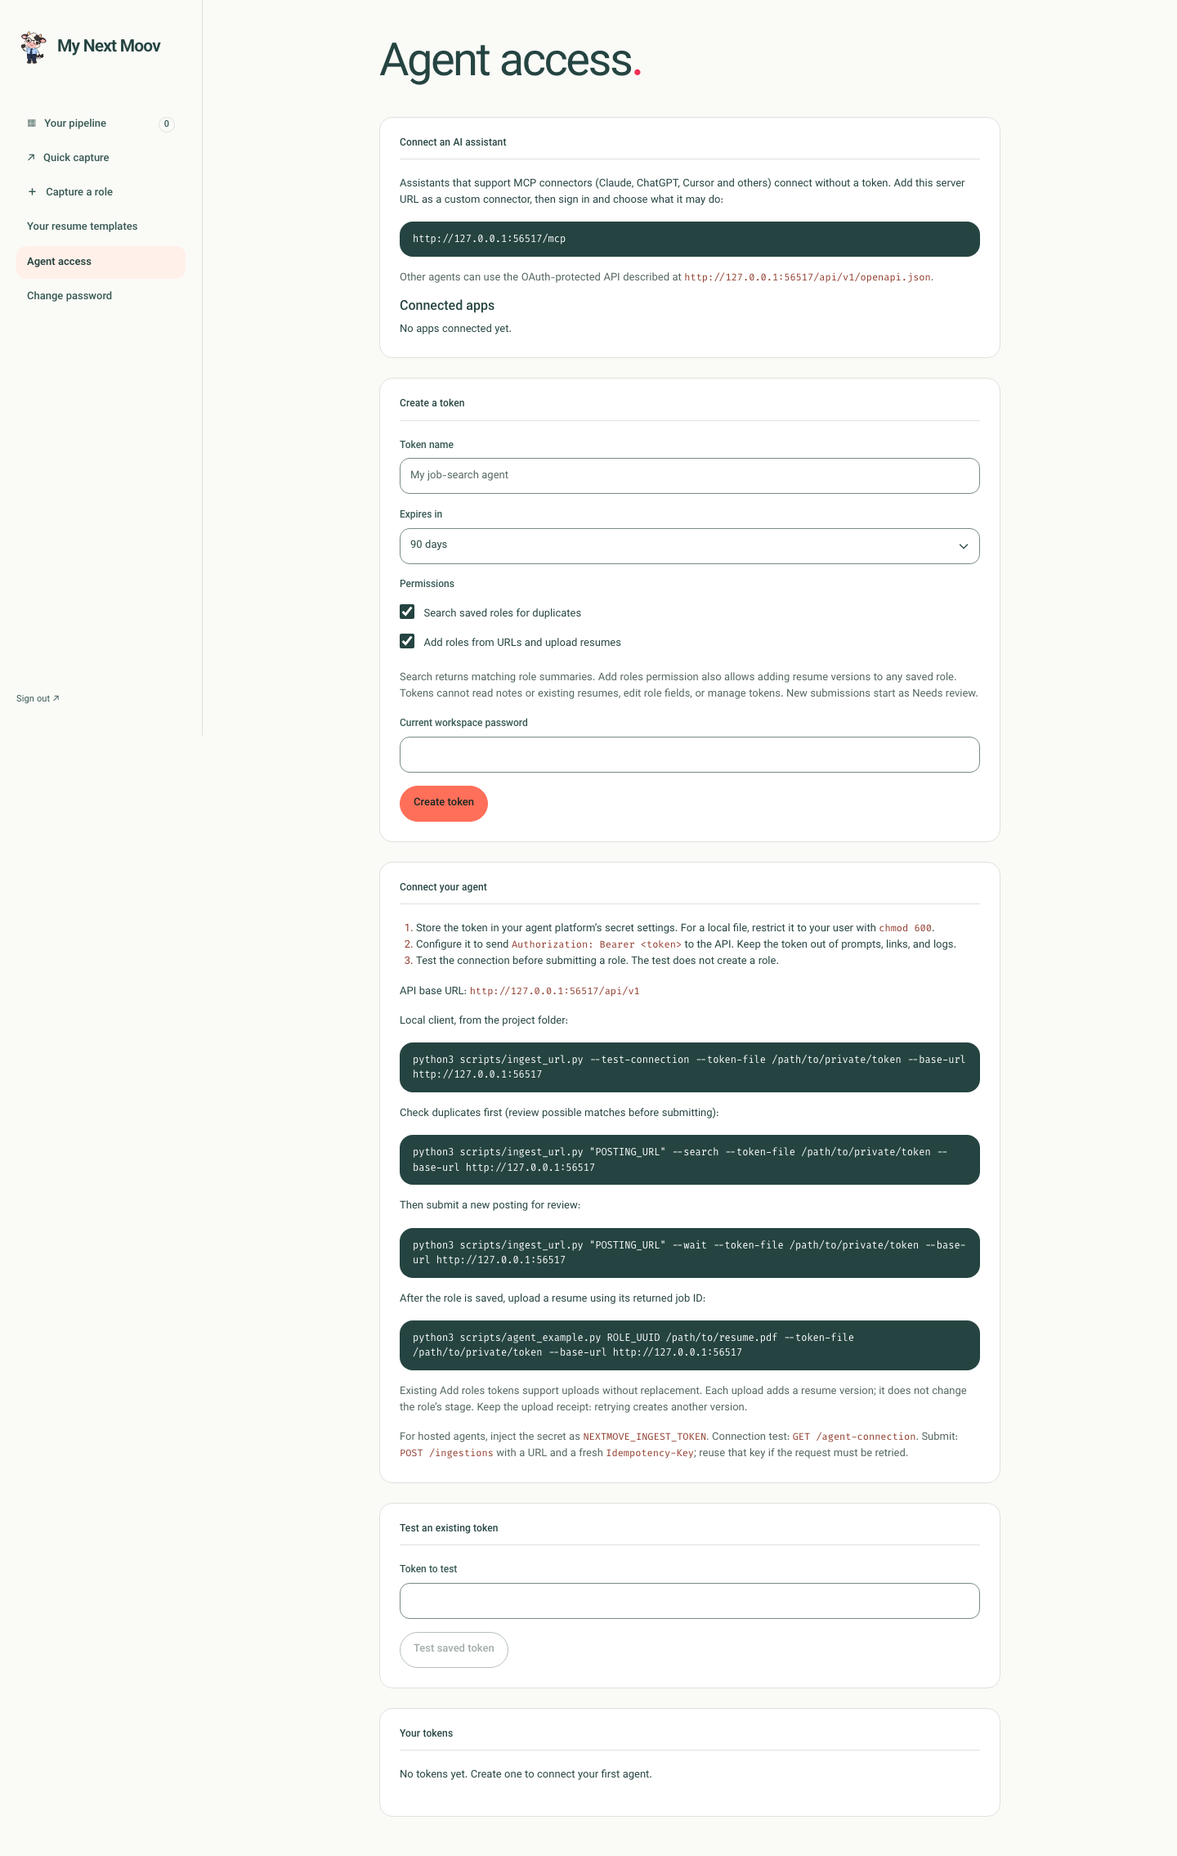
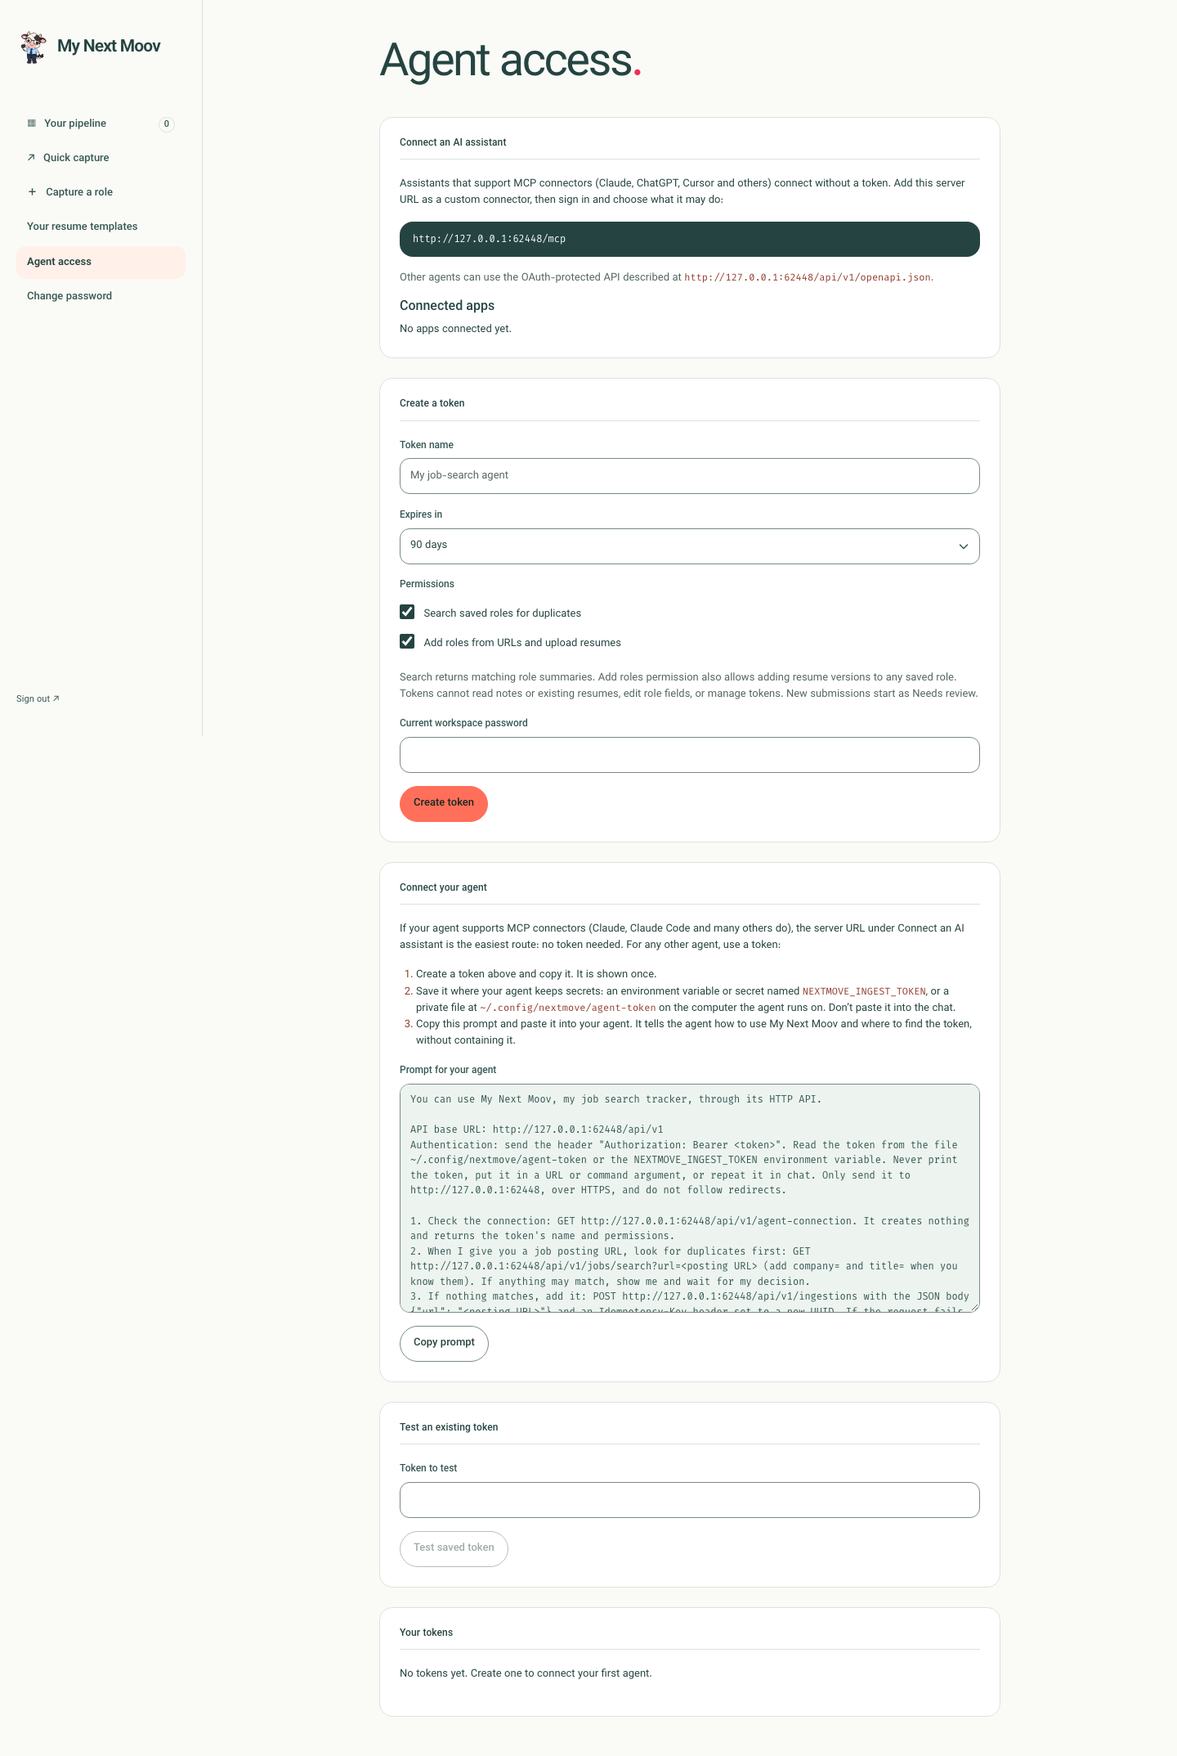
Replace the script instructions on Agent access with an agent prompt
"Connect your agent" told people to run Python scripts from a checkout
of this repository. It now explains the two routes in plain terms (a
connector when the agent supports MCP, otherwise a token) and offers a
read-only, copyable prompt built from the site's real URL. The prompt
says where to read the token (file or NEXTMOVE_INGEST_TOKEN) and lists
the token endpoints: connection check, duplicate search, ingestion and
resume upload. It never contains the token.

Rewrites docs/AGENT_SETUP.md (linked from onboarding) the same way, with
no Python commands. The intake skill and README still point developers
at scripts/ingest_url.py.

Claude-Session: https://claude.ai/code/session_01CG2H8NQyyfMS8e4z9QVwjP

Changed region(s): [[0.3125, 0.0312, 0.8438, 0.9674], [0.0312, 0.0624, 0.0938, 0.1872], [0.0, 0.0, 0.125, 0.0312]]

diff --git a/frontend/src/AgentAccess.jsx b/frontend/src/AgentAccess.jsx
@@ -14,6 +14,25 @@ const CONNECTION_SCOPE_LABELS = {
   "resumes:write": "Upload resumes",
 };
 
+// Where the prompt tells a local agent to read its token.
+export const TOKEN_FILE = "~/.config/nextmove/agent-token";
+
+// Pasted into the agent: the real site URL and the token endpoints, never the token.
+export function agentPrompt(base) {
+  const api = `${base}/api/v1`;
+  return `You can use My Next Moov, my job search tracker, through its HTTP API.
+
+API base URL: ${api}
+Authentication: send the header "Authorization: Bearer <token>". Read the token from the file ${TOKEN_FILE} or the NEXTMOVE_INGEST_TOKEN environment variable. Never print the token, put it in a URL or command argument, or repeat it in chat. Only send it to ${base}, over HTTPS, and do not follow redirects.
+
+1. Check the connection: GET ${api}/agent-connection. It creates nothing and returns the token's name and permissions.
+2. When I give you a job posting URL, look for duplicates first: GET ${api}/jobs/search?url=<posting URL> (add company= and title= when you know them). If anything may match, show me and wait for my decision.
+3. If nothing matches, add it: POST ${api}/ingestions with the JSON body {"url": "<posting URL>"} and an Idempotency-Key header set to a new UUID. If the request fails or times out, retry with the same key. Then poll GET ${api}/ingestions/<id> about once a second until it finishes, and tell me the result and any warnings.
+4. To attach a resume to a saved role: POST ${api}/jobs/<job_id>/resumes as multipart/form-data with the file in a "file" field (PDF, DOCX or TXT). Each upload adds a new version; check with me before retrying an upload.
+
+New roles land in Needs review for me to check. Do not change a role's stage.`;
+}
+
 const formatDate = (value) => value ? new Date(value).toLocaleString() : "Never";
 
 // Checks a raw token from this browser. Credential failures belong to the agent
@@ -101,7 +120,7 @@ export function AgentAccess({ reauthRequired, onBusyChange, onConnected }) {
   const [notice, setNotice] = useState("");
   const base = window.location.origin + import.meta.env.BASE_URL.replace(/\/$/, "");
 
-  const command = (args) => `python3 scripts/ingest_url.py ${args} --token-file /path/to/private/token --base-url ${base}`;
+  const prompt = agentPrompt(base);
 
   async function refresh() {
     setTokens((await api("/agent-tokens")).tokens);
@@ -201,22 +220,22 @@ export function AgentAccess({ reauthRequired, onBusyChange, onConnected }) {
       ) : <TokenCreateForm busy={busy} onCreate={create} />}
       <section className="form-panel mb-4" aria-label="Agent setup instructions">
         <h2 className="section-heading mt-0">Connect your agent</h2>
+        <p>If your agent supports MCP connectors (Claude, Claude Code and many others do), the server URL under Connect an AI assistant is the easiest route: no token needed. For any other agent, use a token:</p>
         <ol>
-          <li>Store the token in your agent platform’s secret settings. For a local file, restrict it to your user with <code>chmod 600</code>.</li>
-          <li>Configure it to send <code>Authorization: Bearer &lt;token&gt;</code> to the API. Keep the token out of prompts, links, and logs.</li>
-          <li>Test the connection before submitting a role. The test does not create a role.</li>
+          <li>Create a token above and copy it. It is shown once.</li>
+          <li>Save it where your agent keeps secrets: an environment variable or secret named <code>NEXTMOVE_INGEST_TOKEN</code>, or a private file at <code>{TOKEN_FILE}</code> on the computer the agent runs on. Don’t paste it into the chat.</li>
+          <li>Copy this prompt and paste it into your agent. It tells the agent how to use My Next Moov and where to find the token, without containing it.</li>
         </ol>
-        <p>API base URL: <code className="agent-url">{base}/api/v1</code></p>
-        <p>Local client, from the project folder:</p>
-        <pre>{command("--test-connection")}</pre>
-        <p>Check duplicates first (review possible matches before submitting):</p>
-        <pre>{command('"POSTING_URL" --search')}</pre>
-        <p>Then submit a new posting for review:</p>
-        <pre>{command('"POSTING_URL" --wait')}</pre>
-        <p>After the role is saved, upload a resume using its returned job ID:</p>
-        <pre>{`python3 scripts/agent_example.py ROLE_UUID /path/to/resume.pdf --token-file /path/to/private/token --base-url ${base}`}</pre>
-        <p className="form-text">Existing Add roles tokens support uploads without replacement. Each upload adds a resume version; it does not change the role’s stage. Keep the upload receipt: retrying creates another version.</p>
-        <p className="form-text mb-0">For hosted agents, inject the secret as <code>NEXTMOVE_INGEST_TOKEN</code>. Connection test: <code>GET /agent-connection</code>. Submit: <code>POST /ingestions</code> with a URL and a fresh <code>Idempotency-Key</code>; reuse that key if the request must be retried.</p>
+        <label className="form-label" htmlFor="agent-prompt">Prompt for your agent</label>
+        <textarea id="agent-prompt" className="form-control agent-prompt" rows={14} value={prompt} readOnly spellCheck={false} />
+        <button type="button" className="btn btn-outline-secondary mt-3" disabled={busy}
+          onClick={() => run(async () => {
+            try { await navigator.clipboard.writeText(prompt); }
+            catch { throw new Error("Copy unavailable. Select the prompt and copy it manually."); }
+            setNotice("Prompt copied. Paste it into your agent.");
+          })}>
+          Copy prompt
+        </button>
       </section>
       <form className="form-panel mb-4" onSubmit={event => { event.preventDefault(); test(testToken); }}>
         <h2 className="section-heading mt-0">Test an existing token</h2>

diff --git a/frontend/tests/agent-access.spec.js b/frontend/tests/agent-access.spec.js
@@ -38,6 +38,16 @@ test("mobile token creation, one-time secret, connection checks and revocation",
   await expect(page.locator("body")).toHaveJSProperty("scrollWidth", 390);
   const stored = await page.evaluate(() => JSON.stringify({ ...localStorage, ...sessionStorage }));
   expect(stored).not.toContain(secret);
+  // The agent prompt names this site's API and the token file, never the token.
+  const prompt = await page.getByLabel("Prompt for your agent", { exact: true }).inputValue();
+  const origin = new URL(page.url()).origin;
+  expect(prompt).toContain(`${origin}${path.replace(/\/$/, "")}/api/v1/agent-connection`);
+  expect(prompt).toContain("~/.config/nextmove/agent-token");
+  expect(prompt).not.toContain(secret);
+  expect(prompt).not.toContain("scripts/");
+  await page.getByRole("button", { name: "Copy prompt", exact: true }).click();
+  expect(await page.evaluate(() => window.copiedToken)).toBe(prompt);
+  await expect(page.getByRole("status")).toContainText("Prompt copied");
   await page.getByRole("button", { name: "I’ve saved my token" }).click();
   await expect(page.getByLabel("New token", { exact: true })).toHaveCount(0);
   await page.screenshot({ path: testInfo.outputPath("agent-access-mobile.png"), fullPage: true });

diff --git a/frontend/src/style.css b/frontend/src/style.css
@@ -1427,6 +1427,12 @@ nav {
 .agent-url {
   overflow-wrap: anywhere;
 }
+.agent-prompt {
+  font-family: var(--font-mono);
+  font-size: var(--text-xs);
+  line-height: var(--leading-normal);
+  resize: vertical;
+}
 .agent-token {
   padding: var(--space-5) 0;
   border-top: var(--border-width) solid var(--color-line);

diff --git a/docs/AGENT_SETUP.md b/docs/AGENT_SETUP.md
@@ -1,145 +1,88 @@
-# Set up your job intake agent
+# Connect an agent to My Next Moov
 
-This walkthrough covers named tokens for duplicate search, URL intake, and
-resume uploads. Use the deployed version with the permissions described below. No MCP server is required: a scoped token and this client
-provide the workflow. MCP can be added later for agents that require tool discovery.
+An AI agent can check job postings against the roles you've already saved,
+add new ones for your review, and attach tailored resumes. There are two ways to
+connect one. Both are set up from **Agent access** in My Next Moov.
 
-## 1. Create access on the site
+New accounts are also offered an optional **Set up an agent** step right after
+sign-up. It explains these options and links to Agent access with
+**Create an agent token**. The dashboard checklist links there later too.
 
-New accounts are offered the same flow as an optional **Set up an agent** step
-right after sign-up (and from the dashboard checklist later). It also shows
-ready-to-copy setup snippets for Claude Code and for a generic HTTP agent; they
-reference the token by file path or `NEXTMOVE_INGEST_TOKEN`, never by value.
+## Option 1: a connector (no token)
 
-Sign in, open **Agent access**, name the token for the agent, choose an expiry,
-and keep **Search saved roles for duplicates** and **Add roles from URLs and
-upload resumes** checked. Enter the current workspace password and select
-**Create token**.
-Copy the secret once, save it, then select **Test connection**. This browser test
-creates no role. **I've saved my token** hides it; leaving/reloading also discards
-it. A lost secret cannot be recovered: revoke it and create a replacement.
+Use this if your agent supports MCP connectors. Claude, Claude Code, ChatGPT,
+Cursor and many others do.
 
-Search-only tokens are available by unchecking Add roles. Tokens cannot read
-private notes or existing resumes, edit role fields, or administer access.
-Add roles tokens can also append resume versions to any saved role; existing tokens
-with that permission work without being replaced.
+1. Open **Agent access** and copy the server URL under **Connect an AI assistant**
+   (for example `https://mynextmoov.com/mcp`).
+2. In your agent, add it as a custom connector (in Claude: **Settings → Connectors
+   → Add custom connector**).
+3. Sign in to My Next Moov when asked, and choose what the agent may do.
 
-## 2. Store the token on the agent's machine
+The app then appears under **Connected apps** on Agent access, where you can
+disconnect it at any time.
 
-For a local agent, create a private file interactively; the token is not placed in
-shell history or printed. Run this yourself, outside the agent conversation:
+## Option 2: an agent token and a prompt
 
-```sh
-python3 - <<'PY'
-from pathlib import Path
-import getpass, os
-folder = Path.home() / '.config' / 'nextmove'
-folder.mkdir(parents=True, exist_ok=True, mode=0o700)
-fd = os.open(folder / 'agent-token', os.O_WRONLY | os.O_CREAT | os.O_EXCL, 0o600)
-with os.fdopen(fd, 'w') as file:
-    file.write(getpass.getpass('Paste your NextMove token: ').strip() + '\n')
-PY
-```
+Use this for any agent that can make HTTP requests but doesn't support connectors.
 
-The command refuses to overwrite an existing file. For a hosted agent, use its
-secret manager to inject `NEXTMOVE_INGEST_TOKEN` into the client process. Give
-the agent only the file path or variable name. Never paste the value into chat,
-URLs, source code, screenshots, or command arguments. The client reads it internally
-and refuses redirects and non-HTTPS sites (except loopback development).
+### 1. Create a token
 
-## 3. Test from the agent's machine
+On **Agent access**, under **Create a token**:
 
-Check out the reviewed version of this repository and run from that folder:
+- Name it after the agent (for example "Laptop agent").
+- Choose when it expires.
+- Keep **Search saved roles for duplicates** and **Add roles from URLs and upload
+  resumes** checked, unless you want a search-only agent.
+- Enter your current password and select **Create token**.
 
-```sh
-python3 scripts/ingest_url.py --token-file "$HOME/.config/nextmove/agent-token" \
-  --base-url https://mynextmoov.com --test-connection
-```
+The token is shown **once**. Copy it, then select **Test connection** to check it
+works. The test creates no role. If you lose the token, revoke it and create
+another; it can't be shown again.
 
-Expect `connected: true`, the token name, and both permissions. A 401 means an
-invalid, expired, or revoked token; a 403 can mean HTTPS is required. This verifies
-connectivity and authentication without creating a role. For hosted agents omit
-`--token-file` to use the injected environment secret. Use the exact deployed base
-URL; the client appends `/api/v1` itself.
+### 2. Give the token to your agent, not to the chat
 
-## 4. Enable the skill
+Store the token where your agent keeps secrets:
 
-The repository includes `.agents/skills/nextmove-url-intake/SKILL.md`. Open this
-checkout as your agent's working project. Codex supports project-local skills in
-`.agents/skills`; see [official skill setup](https://learn.chatgpt.com/docs/build-skills).
-Start a fresh task if the skill is not discovered. For another agent, register
-this SKILL.md using its skill mechanism, keep this checkout available, and configure
-its working directory to this repository. The skill depends on the client and
-this guide; copying only SKILL.md to another location is insufficient.
+- **Hosted agents**: add a secret or environment variable named
+  `NEXTMOVE_INGEST_TOKEN`.
+- **Agents on your own computer**: save it in a private file at
+  `~/.config/nextmove/agent-token` that only your user can read.
 
-Give the agent these nonsecret settings: checkout location, base URL, and token
-file path (or environment variable name). Allow running the Python client and
-HTTPS access to your site. No database, server login, or workspace password is needed.
+Never paste the token into a conversation, a link, a screenshot or source code.
 
-Example request:
+### 3. Paste the prompt
 
-> Use $nextmove-url-intake to check this posting and add it if it is new:
-> https://careers.example/jobs/123. Use https://mynextmoov.com and
-> the private token file at ~/.config/nextmove/agent-token. Pause on possible
-> duplicates and leave new roles for my review.
+Under **Connect your agent**, select **Copy prompt** and paste it into your agent.
+The prompt has your site's real address and tells the agent:
 
-## 5. Search, submit, and review
+- where to read the token (the file or `NEXTMOVE_INGEST_TOKEN`), and to keep it private;
+- how to check the connection;
+- to search for duplicates before adding a posting, and to ask you about possible matches;
+- how to add a posting and wait for the result;
+- how to attach a resume to a saved role.
 
-The agent first searches using the URL and any known company/title:
+Then ask the agent something like:
 
-```sh
-python3 scripts/ingest_url.py 'https://careers.example/jobs/123?jobId=123' \
-  --search --company 'Example' --title 'Backend Engineer' \
-  --token-file "$HOME/.config/nextmove/agent-token"
-```
+> Check this posting and add it if it's new: https://careers.example/jobs/123
 
-The client checks every available result page. Duplicates are skipped. Possible
-matches require your decision; a failed/incomplete search must not silently proceed.
-Job identifiers and unknown query parameters stay significant; known tracking
-parameters do not. If there is no match, submit:
+### What the agent can and can't do with a token
 
-```sh
-python3 scripts/ingest_url.py 'https://careers.example/jobs/123?jobId=123' \
-  --token-file "$HOME/.config/nextmove/agent-token" --wait
-```
+- New roles land in **Needs review**. Open the role, check the details, and move it
+  to **Interesting** when you want to keep it.
+- Each resume upload adds a new version to the role and doesn't change its stage.
+  Uploading the same file twice adds two versions, so check before retrying an upload.
+- Tokens can't read your notes or existing resumes, edit roles, or manage access.
 
-Keep the printed Idempotency-Key. If the response is lost, repeat with
-`--idempotency-key THE_SAME_KEY`; a fresh key is a new submission. Extraction is
-asynchronous; the client waits up to 70 seconds and reports failures/warnings.
-Search and submission are separate operations; they do not enforce uniqueness
-against concurrent writers.
+## Revoke or replace access
 
-Agent submissions appear in the pipeline's **Needs review** column. Open the role,
-check extracted details/notes and warnings, choose **Interesting** in the stage
-selector, then save. Manual entries and Quick capture saves start **Interesting**.
-Existing roles retain their current stages; no roles are reclassified during upgrade.
+On **Agent access**:
 
-## 6. Revoke or rotate access
+- **Token**: find it under **Your tokens**, select **Revoke**, then **Confirm revoke**.
+  It stops working immediately. Roles it already added stay saved. Remove the token
+  from your agent's secrets too.
+- **Connector**: select **Disconnect** under **Connected apps**.
 
-In **Agent access**, find the named token and select Revoke, then Confirm revoke.
-New searches, connection checks, submissions, resume uploads, and receipt reads fail immediately.
-Already accepted work may finish; saved roles remain. Remove the local secret or
-hosted secret configuration. To rotate, create/test a replacement, configure the
-agent with it, then revoke the old token. Old ingestion receipts belong to the old
-token; do not replay unresolved submissions using a replacement and a fresh key.
-Password changes revoke browser sessions but do not revoke agent tokens.
-
-## Attach a resume after saving a role
-
-Use the saved role ID (`job_id` from a successful ingestion receipt) with the same
-Add roles token:
-
-```sh
-python3 scripts/agent_example.py 'ROLE_UUID' '/absolute/path/resume.pdf' \
-  --token-file "$HOME/.config/nextmove/agent-token" \
-  --base-url https://mynextmoov.com
-```
-
-Hosted agents may omit `--token-file` to use `NEXTMOVE_INGEST_TOKEN`. PDF, DOCX, and
-UTF-8 TXT are supported; keep files under 10 MB. The upload client preserves the
-file’s basename for display and downloads (without exposing its local directory).
-Names containing control characters are rejected. Each upload adds a version and
-leaves the role's stage unchanged. Creation and upload are two API calls. Keep the
-upload receipt; check in the browser before retrying an uncertain upload, because
-retries can add duplicate attachment versions. Tokens still cannot list/download
-existing attachments or read role notes.
+To replace a token, create and test the new one, update your agent's secret, then
+revoke the old one. Changing your password signs out your browsers but doesn't
+revoke agent tokens.

diff --git a/README.md b/README.md
@@ -95,4 +95,4 @@ Sites requiring sign-in, JavaScript, or bot challenges may not import. **Enter d
 
 `GET /api/v1/jobs/search` finds explainable duplicate candidates using company, title, and/or URL. It supports an optional, separately scoped hashed bearer credential. See [the contract, secure calling examples, and matching tradeoffs](docs/saved-role-search-api.md). With the configured path mount, call `/nextmove/api/v1/jobs/search`.
 
-Follow the [agent setup walkthrough](docs/AGENT_SETUP.md) for secure token storage, the reusable intake skill, duplicate checking and submission. API submissions start **Needs review**; manual entries and Quick capture start **Interesting**.
+Follow the [agent setup walkthrough](docs/AGENT_SETUP.md) to connect an agent with a connector or a token and the ready-made prompt on Agent access. Developers can also use `scripts/ingest_url.py` and the intake skill in `.agents/skills/nextmove-url-intake/`. API submissions start **Needs review**; manual entries and Quick capture start **Interesting**.

diff --git a/.agents/skills/nextmove-url-intake/SKILL.md b/.agents/skills/nextmove-url-intake/SKILL.md
@@ -3,8 +3,8 @@ name: nextmove-url-intake
 description: Search NextMove for existing roles before submitting authorized job URLs for human review.
 ---
 
-Use the repository's `scripts/ingest_url.py` from its checkout. Read
-`docs/AGENT_SETUP.md` for configuration. Requires Python 3, network access,
+Use the repository's `scripts/ingest_url.py` from its checkout; run it with
+`--help` for its options and `docs/AGENT_SETUP.md` for token setup. Requires Python 3, network access,
 configured NextMove base URL, and a token with search and ingestion permissions.
 Use a configured private token-file path or an injected NEXTMOVE_INGEST_TOKEN;
 never read, print, or paste the secret into a prompt. Never obtain broad credentials.
